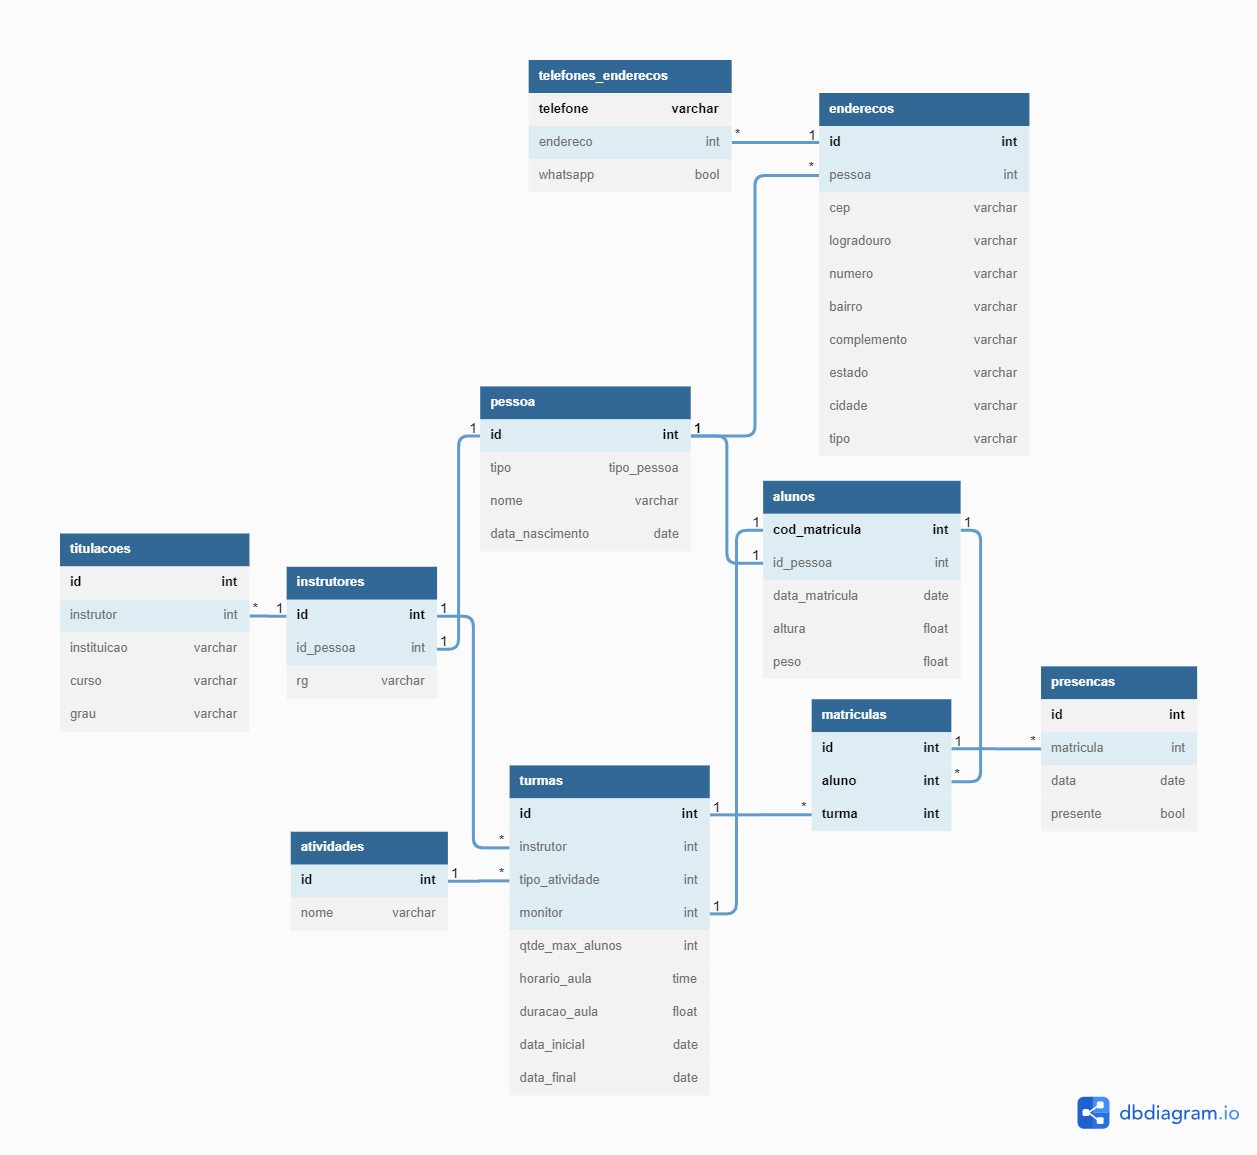
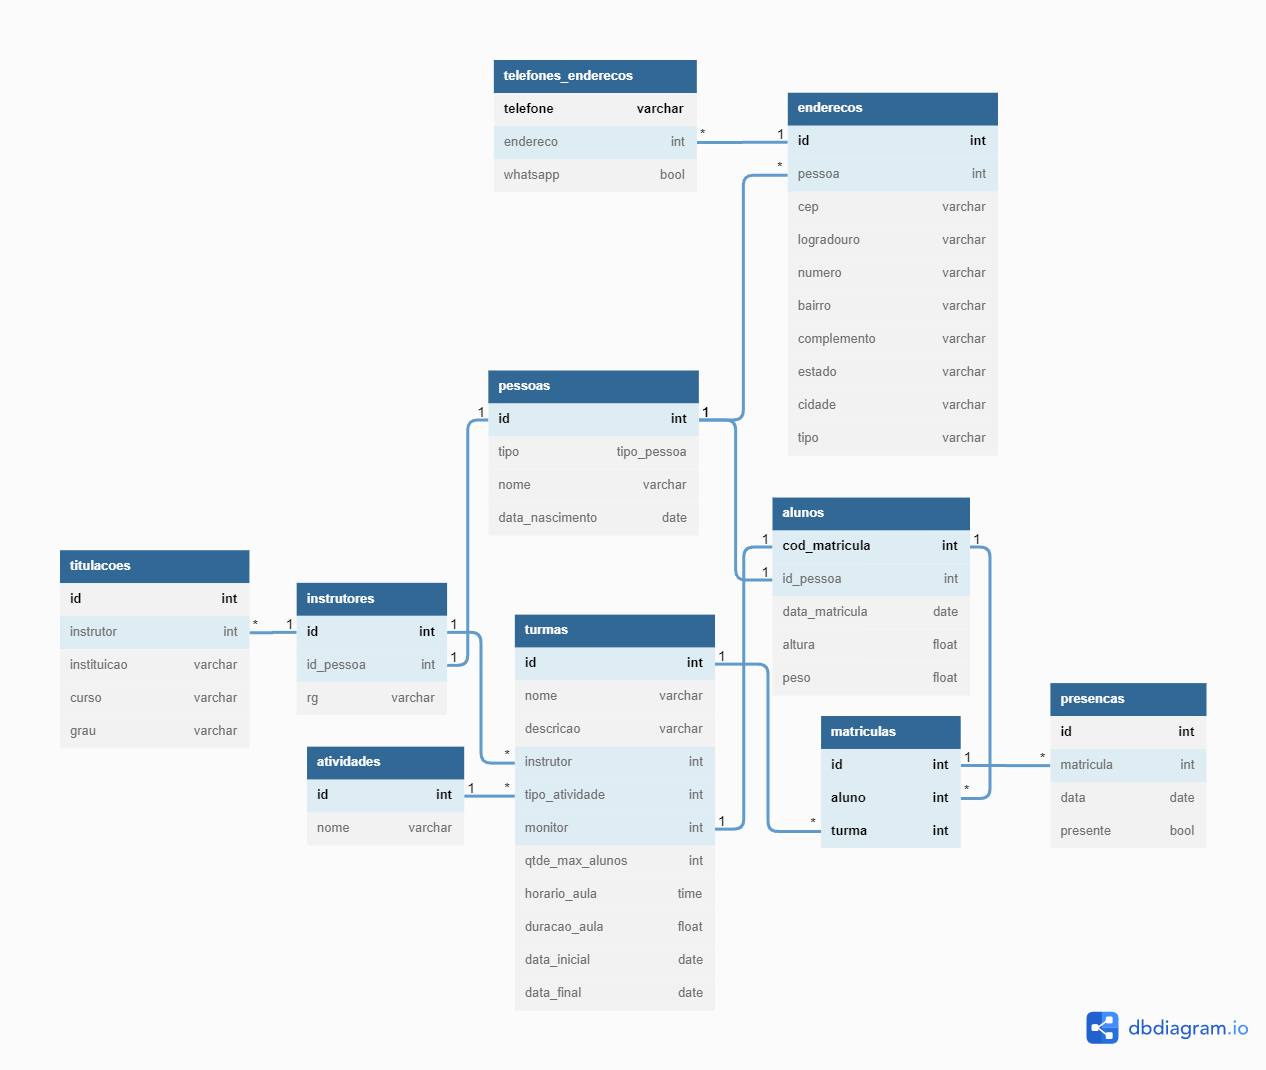
HOTFIX: Changed Turma in the ER Diagram Now it has "nome" and "descricao"

Changed region(s): [[0.031, 0.0308, 0.9618, 0.9561], [0.8377, 0.9252, 0.9928, 0.9869]]

diff --git a/questao_2/entities/turma.ts b/questao_2/entities/turma.ts
@@ -4,6 +4,8 @@ import { Aluno } from "./aluno";
 
 export interface TurmaProps {
   id?: number;
+  nome: string;
+  descricao: string;
   tipo_atividade: Atividade;
   instrutor: Instrutor;
   monitor: Aluno;
@@ -55,5 +57,13 @@ export class Turma {
 
   get data_final() {
     return this.props.data_final;
+  }
+
+  get nome() {
+    return this.props.nome;
+  }
+
+  get descricao() {
+    return this.props.descricao;
   }
 }

diff --git a/questao_3/src/entities/turma.ts b/questao_3/src/entities/turma.ts
@@ -4,6 +4,8 @@ import { Aluno } from './aluno'
 
 export interface TurmaProps {
   id?: number
+  nome: string
+  descricao: string
   tipo_atividade: Atividade
   instrutor: Instrutor
   monitor: Aluno
@@ -55,5 +57,13 @@ export class Turma {
 
   get data_final() {
     return this.props.data_final
+  }
+
+  get nome() {
+    return this.props.nome
+  }
+
+  get descricao() {
+    return this.props.descricao
   }
 }

diff --git a/questao_3/src/dtos/ITurmaDTO.ts b/questao_3/src/dtos/ITurmaDTO.ts
@@ -1,5 +1,7 @@
 export interface ITurmaDTO {
   id: number
+  nome: string
+  descricao: string
   tipo_atividade: number
   instrutor: number
   monitor: number
